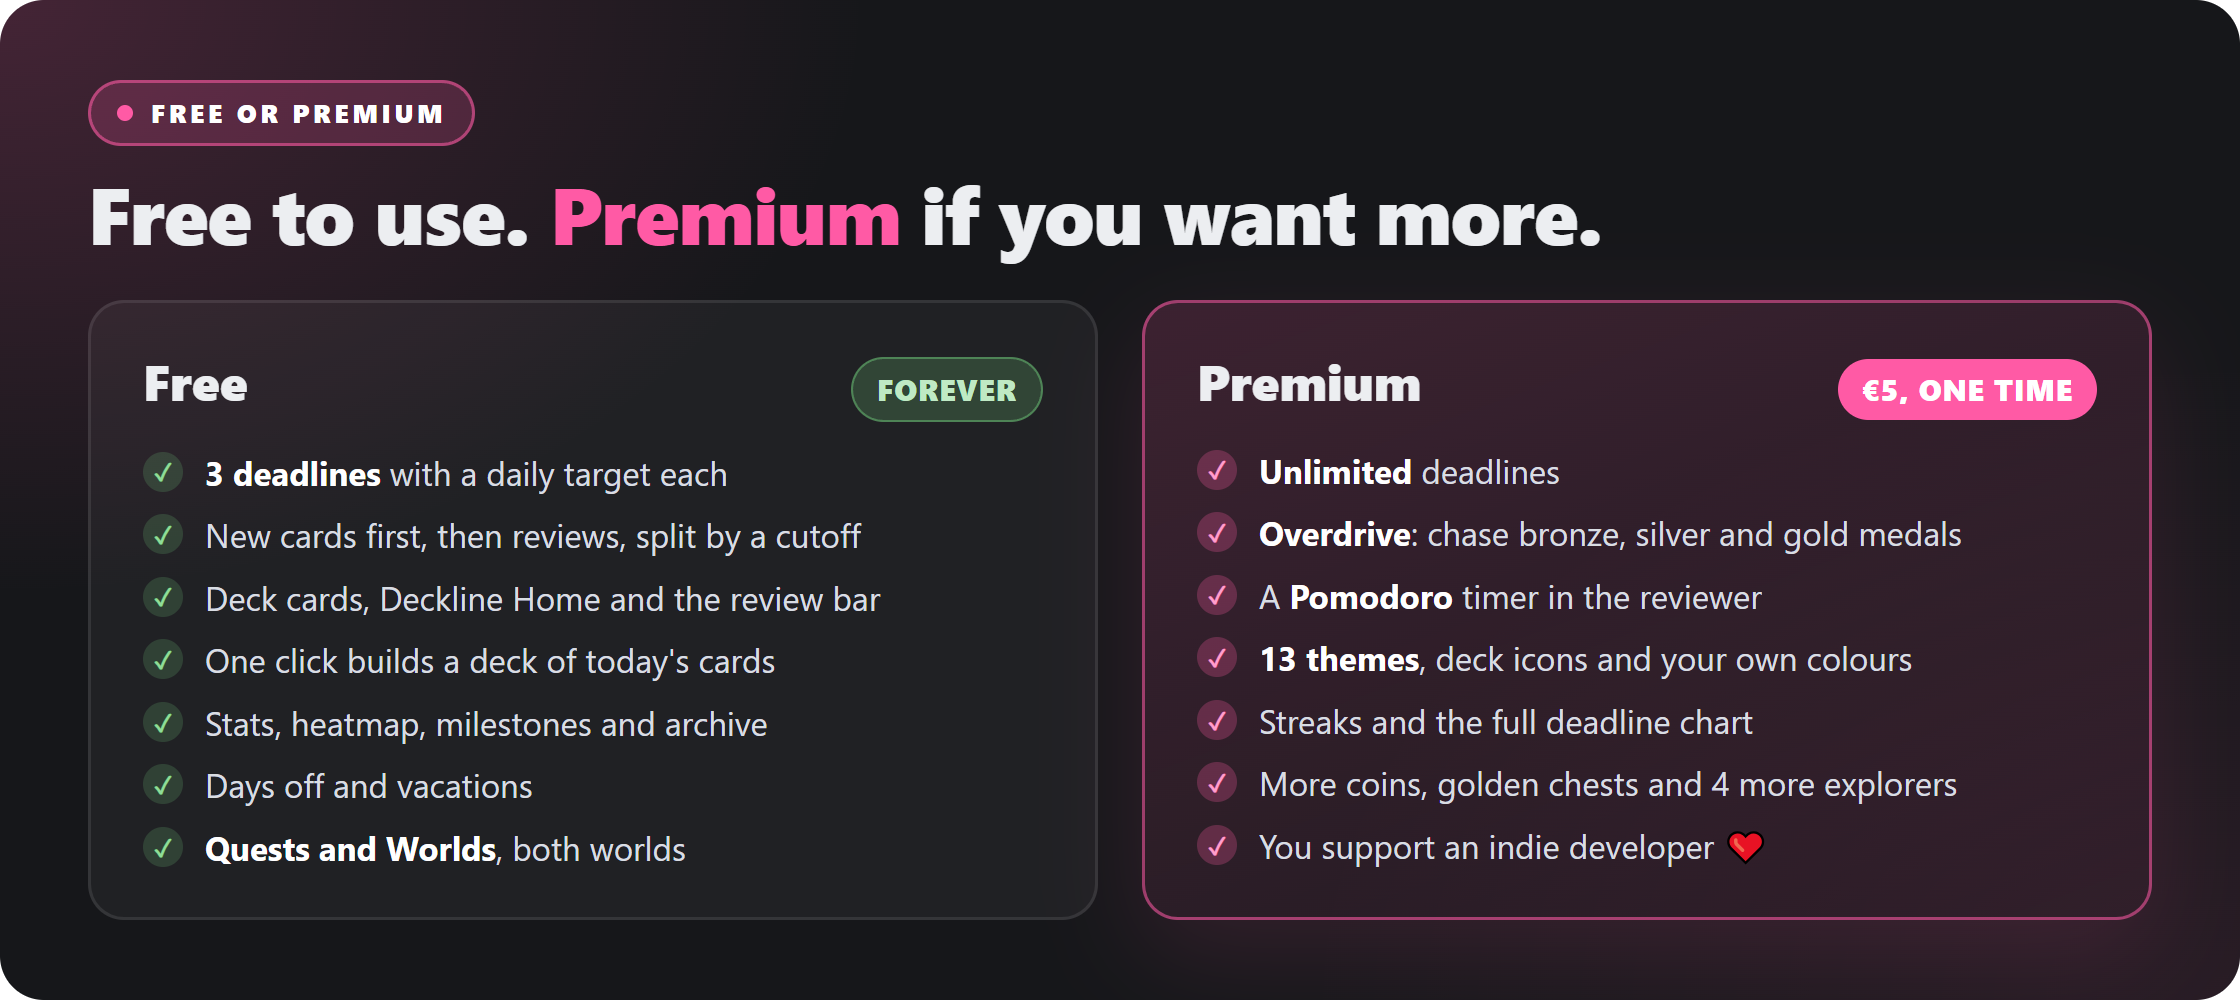
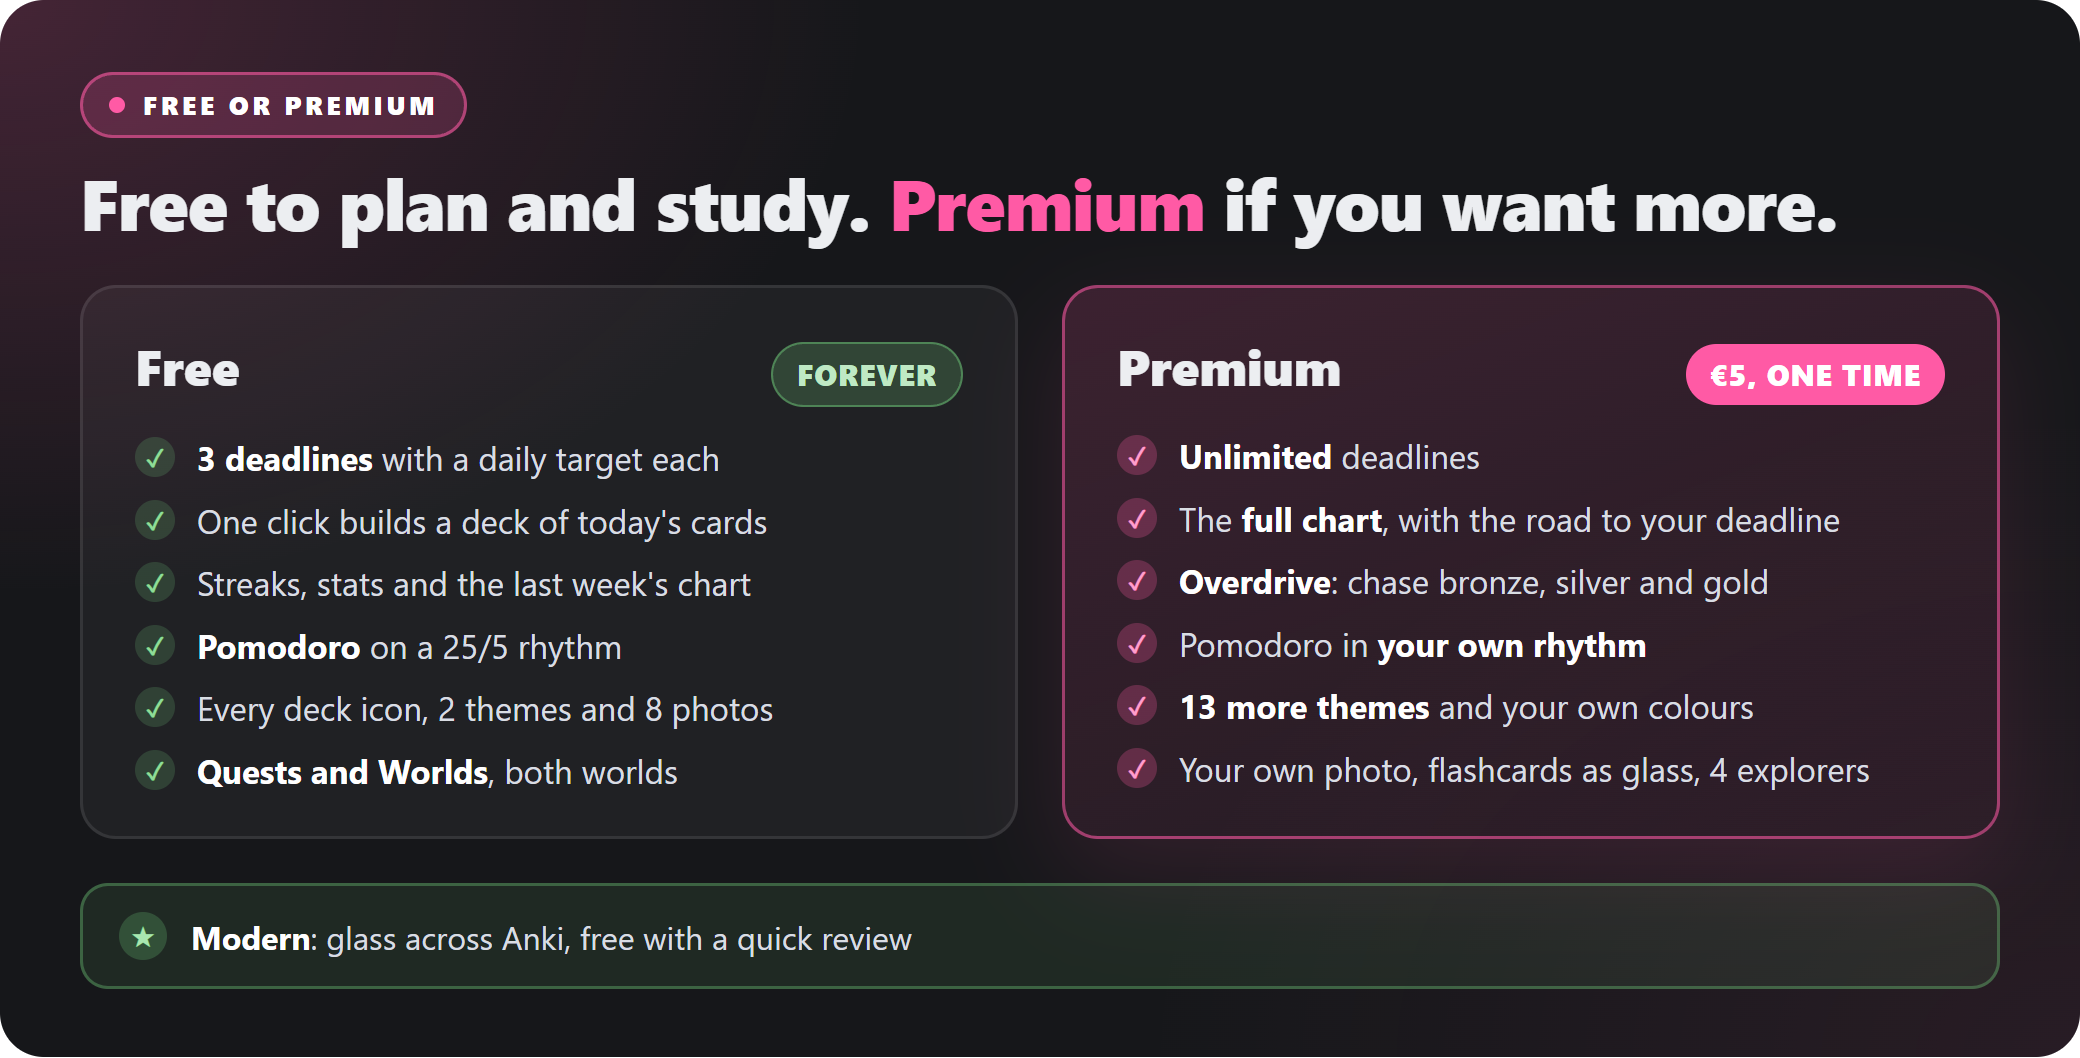
Add files via upload

diff --git a/README.md b/README.md
@@ -8,6 +8,8 @@
 [![GitHub Issues](https://img.shields.io/badge/GitHub-Issues-181717?style=for-the-badge&logo=github&logoColor=white)](https://github.com/Kwinties/Deckline/issues)
 [![Support on Ko-fi](https://img.shields.io/badge/Support-Ko--fi-FF5A5F?style=for-the-badge&logo=ko-fi&logoColor=white)](https://ko-fi.com/s/d708f4b514)
 
+![Deckline in a modern Anki](deckline_hero.gif)
+
 </div>
 
 ---
@@ -26,6 +28,8 @@ Deckline helps you finish Anki decks before a chosen **deadline** by turning the
 - Shows a **live daily pace** while you pick your dates: new cards a day until the cut-off, then reviews a day until the deadline, updating as you type. The same card runs backwards too, turning a pace you choose into the dates that deliver it.
 - **Quests and Worlds** (new in v3.0, free, off by default): every day you hit a deadline's target (10 cards or more) earns a footprint, footprints bring animals to a jungle at the bottom of the deck list, and every deadline is a route of stones on the back of its deck card. Find all eight jungle animals and your footprints take you on to a second world, the Lagoon. See [Quests and Worlds](#quests-and-worlds) below.
 - Builds a **smart filtered deck** with exactly the cards you still need to hit today's target. Click the **NEW** or **REVIEW** phase button on a deck card, or the deck's name once that deck exists. If you run low before reaching today's target, an **Add** button appears next to *More* in the reviewer to top the deck back up with one click.
+- **Modernise** (new in v3.1): turns Anki's bars, the deck list and the review screen into frosted glass, over a photo you pick. See [Modernise](#modernise) below.
+- **AI study panel** (new in v3.1, free, off by default): Claude, ChatGPT, Gemini or Perplexity in a panel beside your card. See [AI study panel](#ai-study-panel) below.
 
 ## What Deckline does *not* do
 
@@ -59,7 +63,8 @@ Deckline helps you finish Anki decks before a chosen **deadline** by turning the
 | **Topbar** | Focus mode, sort options, a "behind only" filter, and the Timeline / Pomodoro panels. |
 | **Main-screen bottom bar** | Smart messages and curated study facts (can be hidden in settings). |
 | **Deck Overview** | Today's progress as *done / target*, with phase and rest-day context. |
-| **Review screen** | A progress bar that updates live while you review, plus (Premium) a completion effect and Overdrive, and (free) the Add button on your quick filtered decks. |
+| **Review screen** | A progress bar that updates live while you review, with a completion effect and the Add button on your quick filtered decks, plus Overdrive and checkpoints *(Premium)*. |
+| **Anki's own screens** | With **Modern** on: glass bars, a glass deck list and your photo behind it all. With the AI study panel on: an AI button in the top bar. |
 
 ## Quests and Worlds
 
@@ -79,13 +84,39 @@ The **Quests** window (from the world card or the *Quests* tab in the topbar) ha
 
 **Premium adds** coins for your best Overdrive medal each day, a golden chest beside every wooden one, four more explorers, and the items and the ninth animal that finish both worlds (a waterfall, a red flower, lanterns and fireflies in the jungle; glass floats, glowing plankton, a sea anemone and a shipwreck in the lagoon). Everything else in Quests and Worlds is free.
 
+## Modernise
+
+![Make Anki yours](deckline_modern.png)
+
+New in v3.1, on the **Modernise** page of the settings.
+
+- **Classic or Modern**: Classic is Anki's own look. Modern turns the top and bottom bars, the deck list, the Deckline column and the review bar into one frosted glass, with Deckline beside or below your decks. Modern is free with a quick review on AnkiWeb: click its picture on the Modernise page.
+- **Glass**: three sliders set how solid, how frosted and how coloured the glass is.
+- **A photo behind Anki**: eight photos are free and work on Classic too. Set how strongly the photo shows while you review. Premium adds your own photo, its strength on the main screens, and its focus and zoom.
+- **Themes**: Deckline and Deckline Light are free. Click any of the 13 Premium themes on the **Theme** page to try it on.
+- **Flashcards as glass** *(Premium)*: your cards in the colours of your theme, with sliders for See-through, Frost and Tint. Nothing is written to your note types, so switching it off gives you your own cards back.
+
+Deckline leaves Anki's screens alone when Onigiri is installed, because Onigiri draws its own.
+
+## AI study panel
+
+![Ask AI about a card](deckline_ai.png)
+
+New in v3.1, free. Switch it on under *Plugins → AI study panel* and an AI button appears in Anki's top bar.
+
+- **Pick your AI**: Claude, ChatGPT, Gemini, Perplexity, or an https address of your own. You sign in yourself, on the AI's own site, and the sign-in stays on your computer.
+- **Paste card** puts the card you are reviewing in the chat field, with your own prompt. Nothing is sent until you press Enter.
+- **Yours to arrange**: drag the panel as wide as you like, set a start page per AI, or open the page in your own browser.
+
+Deckline runs no script in the AI's page and never reads your chats. If a service refuses to sign in inside the panel, use **Open in browser**.
+
 ## Stats window
 
 Open it from the stats button in the topbar:
 
 - **Home**: daily plan and 7-day weekly rhythm.
 - **Metrics**: deadline activity and progress patterns across all your decks.
-- **Chart**: recent done-vs-target per deck, with earned Overdrive medals and Quests footprints shown right on the bars (Premium adds an all-decks timeframe and a full deadline projection).
+- **Chart**: done vs target for the last 7 days, with earned Overdrive medals and Quests footprints right on the bars. Premium adds 30 days, all time and every day ahead to your deadline.
 - **Heatmap**: per-deck study-day history, colored by progress against your daily targets.
 - **Milestones**: rewards for consistency, plus a Quests block with Quests and Worlds on. Purely cosmetic, never affecting scheduling.
 - **Archive**: completed deadlines with their full history, and a postcard for each one finished with Quests and Worlds on.
@@ -93,7 +124,7 @@ Open it from the stats button in the topbar:
 ## Timeline & Pomodoro
 
 - **Timeline** shows all your deadlines, cut-off dates, and custom dates (exams, trips, milestones) in one range view.
-- **Pomodoro** *(Premium)* adds a focus/break timer with review-screen timing feedback, configurable break warnings, an end-of-session chime (testable, and can be switched off), a button to skip a break early, and the option to turn Pomodoro off entirely.
+- **Pomodoro** is a focus/break timer on a 25/5 rhythm, with a countdown on the review screen, an end-of-session chime (testable, and can be switched off) and a button to skip a break early. Premium adds your own lengths and long breaks, a warning before the end and auto-start.
 
 ## Settings
 
@@ -103,28 +134,26 @@ Per deck: right-click a deck → **Deadline**. Global: **Tools → Deckline sett
 | --- | --- |
 | **Schedule** | Deck name, start date, cut-off date, deadline, and the **Daily pace** card. |
 | **Planning** | Expected total cards, daily target counting mode, daily target override, day rollover, days off, time off (vacation days). |
-| **Progress** | Progress bar visibility, time-estimate multipliers, streaks *(Premium)*. |
+| **Progress** | Progress bar visibility, smart hints on deck cards, the review bar with its completion effect and checkpoints *(Premium)*, streaks, time-estimate multipliers. |
 | **Gamify** | Quests and Worlds, and Overdrive *(Premium)*. |
-| **Plugins** | Timeline, Pomodoro, bottom bar and review messages, deck card layout. |
-| **Appearance** | Theme gallery (2 free, 13 Premium presets), card styling, custom deck icons (free unlock button available), deck and status colors *(Premium)*, completion effect *(Premium)*. |
-| **Premium** | License code entry and a feature overview. |
+| **Plugins** | Timeline, Pomodoro (your own rhythm *Premium*), the AI study panel, bottom bar and review messages. |
+| **Theme** | Theme gallery (2 free, 13 Premium presets you can try on), the Deadline card (accents, every icon, the bar checkpoint, a deck's own colour *(Premium)*), your own colors *(Premium)*. |
+| **Modernise** | Classic or Modern (free with a quick review): one glass for Anki's bars, the deck list and Deckline, with Deckline beside or below your decks, and how see-through, frosted and coloured it is; flashcards as glass *(Premium)*; a photo behind Anki (8 free, your own *Premium*). |
+| **Premium** | License code entry, and Free and Premium side by side. |
 
 ## Free vs. Premium
 
-Deckline is free to use for up to **3 deadlines** (or custom Timeline dates) at once, with two built-in themes (dark **Deckline** and light **Deckline Light**). Everything above is included, and so is the whole Planning page, time off (vacation days) too: always a full rest day (0% target), to block out longer stretches in advance. Premium removes that limit and adds:
+Free covers everything to plan, study and stay on track. Premium is **€5 once**, no subscription, and adds more, deeper and your own style. The same list is on the Premium page in the settings.
 
-- ♾ **Unlimited deadlines**
-- 🍅 **Pomodoro timer**, built into the review screen, with break warnings, an end-of-session chime, a skip-break button, and an off switch
-- 🔥 **Streaks & milestone tracking** for staying consistent
-- 🖼 **Full custom deck icon pack**, plus custom deck and status colors
-- ✍ **A gallery of premium themes** (13 presets, including **Amethyst** and **Pistachio**), plus full custom color control
-- 🎯 **Adjustable review bar checkpoints** (1-8, default 3): subtle pulses as you approach today's target, shown for any Premium account whether or not Overdrive is on.
-- 🎮 **Overdrive**: once you hit today's target, the review bar resets so you chase bronze (130%), silver (160%) and gold (200%) medals, each with its own color and a live bonus counter. Earn a medal and the On Track pill on your deck list glows to match for the rest of the day, three Stats milestones track every medal you collect, and earned medals now show up right on the stats Chart.
-- 🌴 **More for Quests and Worlds**: medals pay coins, a golden chest beside every wooden one on your routes, four more explorers, and the items and the ninth animal that finish both worlds
-- ✨ **Completion effect** the instant you reach your daily target
-- 📊 **Full deadline projection chart** and an all-decks timeframe view
+| | Free | Premium adds |
+| --- | --- | --- |
+| **More** | Up to 3 deadlines at once (custom Timeline dates count) | Unlimited deadlines |
+| **Deeper** | The chart for the last 7 days; Pomodoro on a 25/5 rhythm; Quests and Worlds, both worlds; streaks; the completion effect | The full chart, with the road to your deadline; Overdrive: medals past your target; Medal coins and golden chests; Pomodoro in your own rhythm |
+| **Your style** | The Deckline and Deckline Light themes; eight background photos; every deck icon, and accents per deadline | 13 more themes; Your own colors, for each deck too; Your own background photo; Flashcards as frosted glass; Four explorers, every world finished |
 
-Free users can also unlock hand-drawn custom icons and card blur/opacity controls (normally Premium-only) by leaving a quick review of Deckline on AnkiWeb. The unlock button is right there in the Appearance settings.
+**Free with a review: Modern.** Leave a quick review on AnkiWeb and Modern is yours: glass across Anki, with its opacity, blur and color. Click the Modern picture on the Modernise page.
+
+Everything you had stays: a lapsed licence keeps your Premium settings stored for when it comes back, and nothing that is free will ever become Premium.
 
 ## How targets are calculated
 
@@ -180,7 +209,7 @@ Both: the Deck Overview, review bar and today counters are daily. The Deck Brows
 - **Overview progress bar missing**: check *Progress* settings → "Show daily progress bar in deck overview".
 - **Review progress bar missing**: check *Progress* settings → "Show daily progress bar in review screen".
 - **Targets seem off**: double-check the deadline dates, skipped weekends/vacation days, the day-off learning amount, and expected total cards.
-- **Pomodoro unavailable**: it's a Premium feature and must be enabled in *Plugins* settings.
+- **Pomodoro not showing**: switch it on under *Plugins → Pomodoro* in the settings.
 
 ## Managing your plans
 
